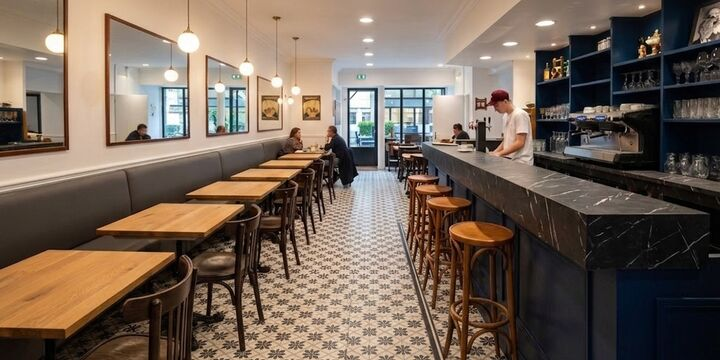
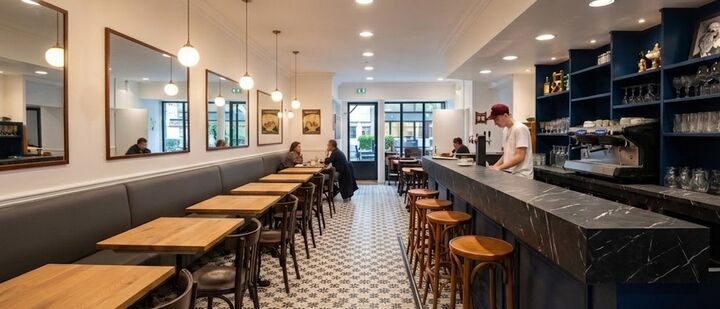
Bandeau pleine largeur, photo en 21:9, Instagram remonté
Le bandeau du menu s'arrêtait à la largeur de la photo pour s'aligner sur
elle. Depuis qu'un espace les sépare, cet alignement ne veut plus rien dire,
et une bande qui s'arrête en chemin fait inachevé. Des marges négatives
annulent le rembourrage de l'en-tête, sans quoi il manquait vingt pixels de
chaque côté.

La photo passe en 21:9. Le 2:1 empilait encore beaucoup de sol ; trois
proportions ont été cadrées et comparées en capture, et au-delà de 2,6:1 les
suspensions sont coupées et la scène devient une tranche. Le 21:9 garde les
globes, la banquette entière et le comptoir. L'image la plus large tombe de
98 à 79 Ko au passage.

Instagram était relégué au pied de page, en mention de service. C'est
pourtant là que vivent les photos d'un restaurant. Il remonte auprès des
coordonnées, en lien et non en troisième bouton : trois boutons de même poids
feraient perdre au téléphone sa primauté, alors que c'est l'action
principale.

diff --git a/public/style.css b/public/style.css
@@ -243,13 +243,16 @@ h3 {
      dès 390 px de large. Elles respirent davantage sur grand écran. */
   gap: 0.4rem 1.2rem;
   justify-content: center;
-  max-width: var(--page);
-  /* De l'air sous le logo, qui est recadré au plus près de son dessin, et
-     sous le menu, sinon il colle au haut de la photo. */
-  /* L'air en dessous n'est pas de l'agrément : sans elle, le bandeau touchait
-     la photo et les deux se lisaient comme un seul bloc. Le menu se faisait
+  /* Pleine largeur. Il s'arrêtait à la largeur de la photo pour s'aligner sur
+     elle ; depuis qu'un espace les sépare, cet alignement ne veut plus rien
+     dire, et un bandeau qui s'arrête en chemin fait inachevé.
+
+     L'air en dessous n'est pas de l'agrément : sans lui, le bandeau touchait
+     la photo et les deux se lisaient comme un seul bloc — le menu se faisait
      absorber par l'image au lieu d'appartenir à l'en-tête. */
-  margin: 2.2rem auto 2.5rem;
+  /* Les marges négatives annulent le rembourrage de l'en-tête : sans elles,
+     le bandeau s'arrêtait vingt pixels avant le bord de chaque côté. */
+  margin: 2.2rem calc(-1 * var(--marge)) 2.5rem;
   /* Marges latérales réduites : c'est une bande, pas du texte à justifier.
      Les vingt pixels récupérés de chaque côté sont ce qui manquait aux trois
      entrées pour tenir sur une ligne à 390 px. */
@@ -502,6 +505,17 @@ section {
 
 .coordonnees__appel .bouton {
   min-width: 15rem;
+}
+
+/* Un lien, pas un troisième bouton : trois boutons de même poids feraient
+   perdre au téléphone sa primauté, alors que c'est l'action principale. */
+.coordonnees__instagram {
+  margin: 1.1rem 0 0;
+  font-size: 0.95rem;
+}
+
+.coordonnees__instagram a {
+  text-underline-offset: 0.3em;
 }
 
 .bouton {

diff --git a/src/lib/rendu.php b/src/lib/rendu.php
@@ -119,14 +119,14 @@ function info(array $infos, string $cle, string $defaut = ''): string
 /**
  * La photo d'ambiance, dans ses trois largeurs préparées par outils/images.py.
  *
- * Recadrée en 2:1 quelle que soit la source. La salle est tout en longueur,
+ * Recadrée en 21:9 quelle que soit la source. La salle est tout en longueur,
  * un cadre allongé l'épouse — et une image presque carrée en pleine largeur
  * ferait un bloc qui repousse tout le contenu sous la ligne de flottaison.
  *
  * Doit rester d'accord avec SALLE_RATIO dans outils/images.py.
  */
 const SALLE_LARGEURS = [420, 720, 1040];
-const SALLE_RATIO = 2.0;
+const SALLE_RATIO = 2.333;
 
 // ---------------------------------------------------------------------------
 // Les deux pages
@@ -636,6 +636,17 @@ function rendre_coordonnees(array $infos): string
 
     if ($actions !== []) {
         $bloc[] = '      <p class="coordonnees__appel">' . implode("\n        ", $actions) . '</p>';
+    }
+
+    // Instagram est là que vivent les photos d'un restaurant : le reléguer au
+    // pied de page en faisait une mention de service. Il devient une
+    // invitation, à côté des actions, sans concurrencer le bouton d'appel.
+    $instagram = lien_externe($infos, 'instagram');
+
+    if ($instagram !== '') {
+        $bloc[] = '      <p class="coordonnees__instagram">'
+            . '<a href="' . e($instagram) . '" target="_blank" rel="noopener me">'
+            . 'Voir nos photos sur Instagram</a></p>';
     }
 
     $bloc[] = '    </section>';

diff --git a/outils/images.py b/outils/images.py
@@ -48,15 +48,15 @@ LOGO_PLAGE = "30%,50%"
 # SALLE_LARGEURS et SALLE_RATIO dans src/lib/rendu.php.
 SALLE_LARGEURS = (420, 720, 1040)
 
-# 2:1. La salle est tout en longueur : un cadre allongé l'épouse, alors qu'un
-# 3:2 empilait beaucoup de sol et repoussait le contenu vers le bas. Un 21:9,
-# essayé aussi, coupait les suspensions et réduisait la scène à une tranche.
-SALLE_RATIO = 2.0
+# 21:9. La salle est tout en longueur : un cadre allongé l'épouse. Un 3:2
+# empilait beaucoup de sol et repoussait le contenu vers le bas ; au-delà de
+# 2,6:1, les suspensions sont coupées et la scène devient une tranche.
+SALLE_RATIO = 2.333
 
 # Quelle part du surplus de hauteur on retire par le haut. On garde les
 # globes et la banquette, on rogne le sol, qui n'apporte rien.
 # Exprimé en proportion et non en pixels, pour tenir avec une autre photo.
-SALLE_CADRAGE = 0.45
+SALLE_CADRAGE = 0.35
 
 
 def executer(arguments: list[str]) -> None:
